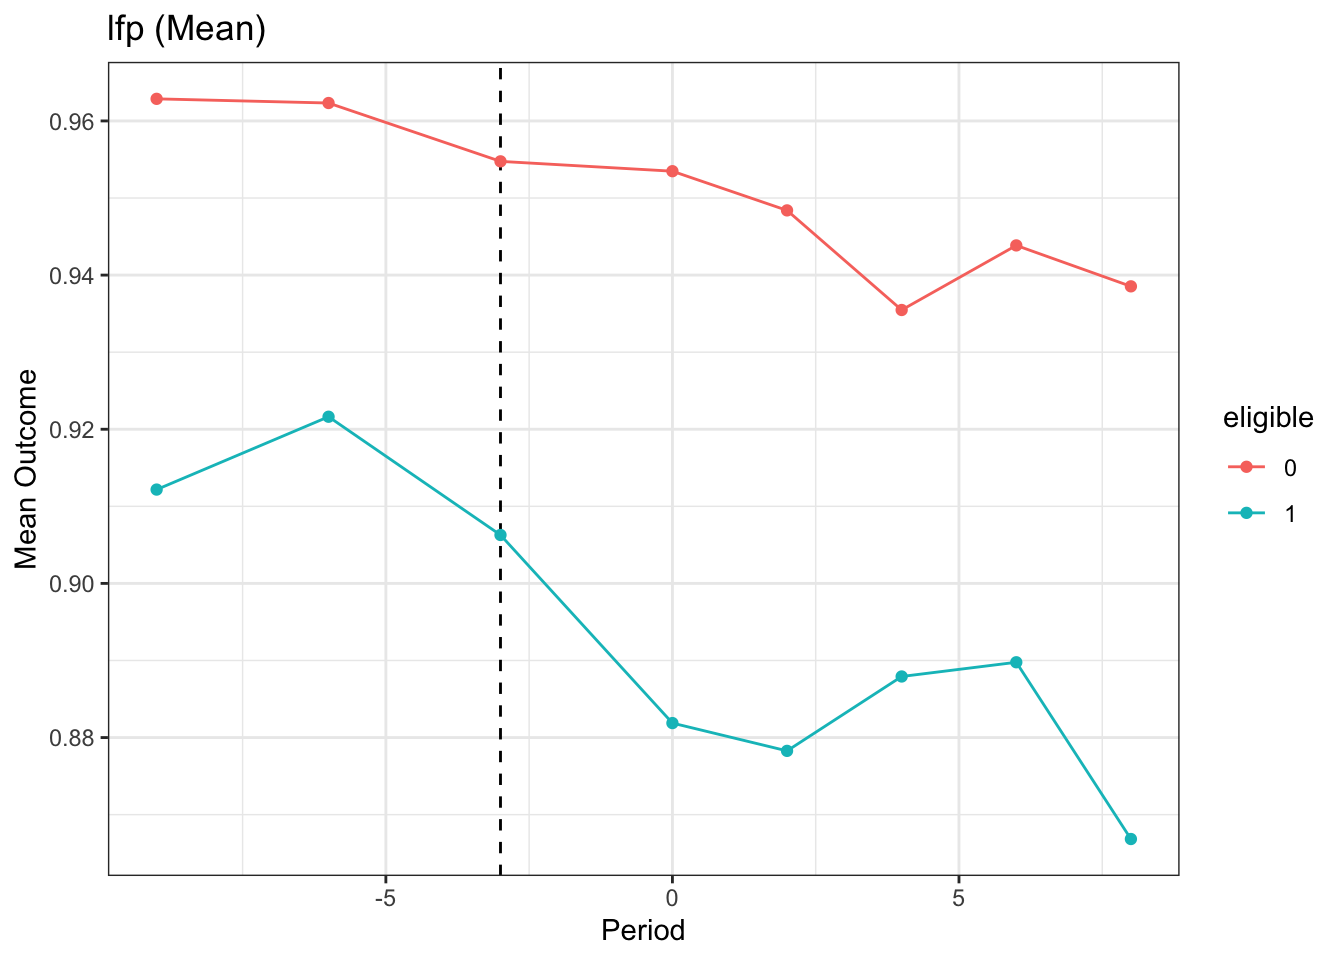
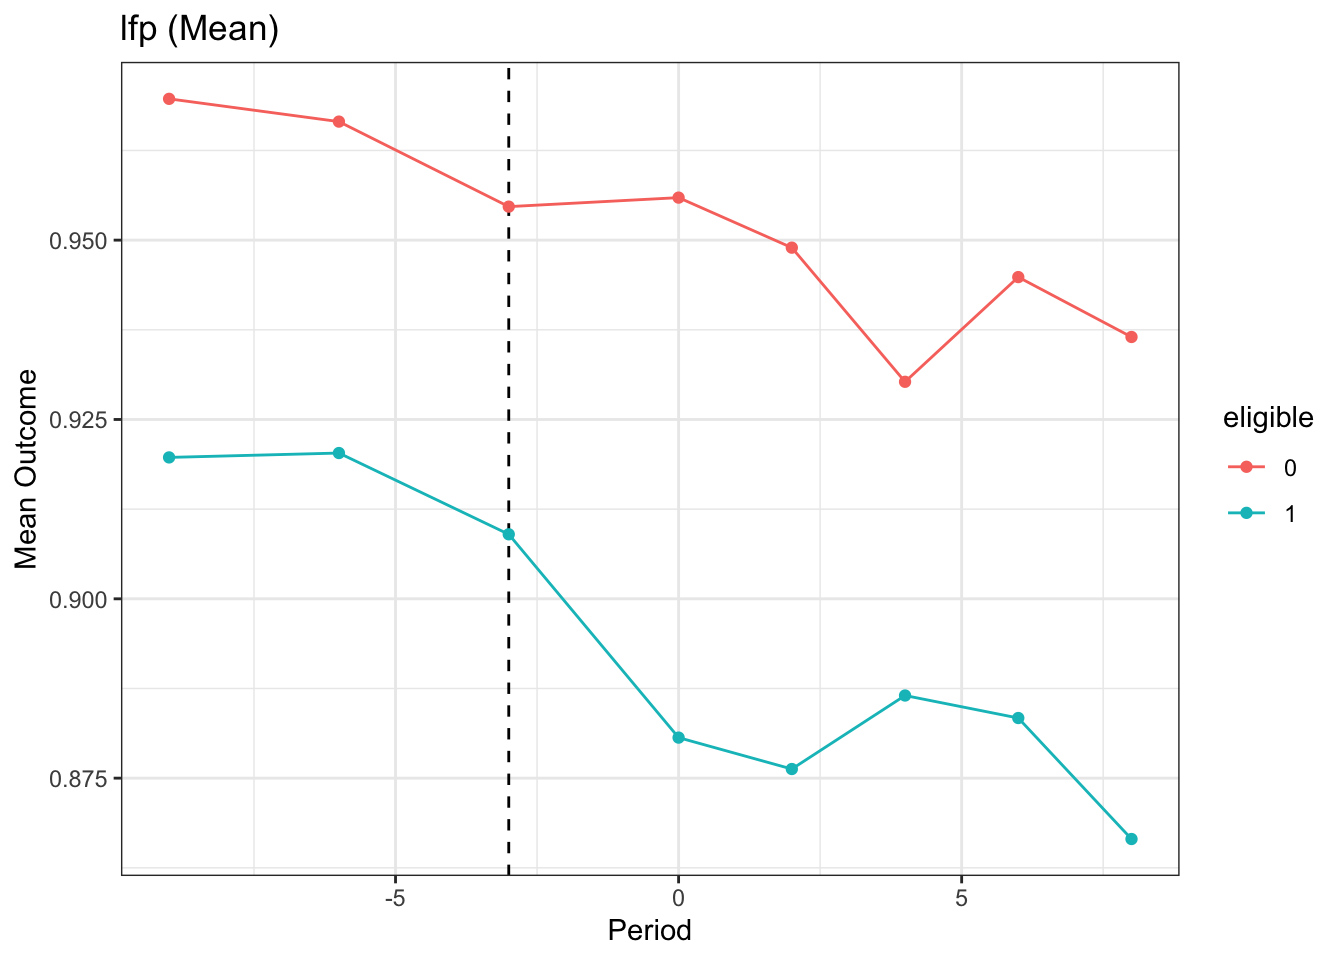
Updated the sample restriction (urban) and data cleaning code

diff --git a/3_did_contd.html b/3_did_contd.html
@@ -83,14 +83,16 @@ pre > code.sourceCode > span > a:first-child::before { text-decoration: underlin
 <h1>Additional sample restriction</h1>
 <div class="cell">
 <div class="sourceCode cell-code" id="cb1"><pre class="sourceCode r code-with-copy"><code class="sourceCode r"><span id="cb1-1"><a href="#cb1-1" aria-hidden="true" tabindex="-1"></a>df_intensive <span class="ot">&lt;-</span> df_intensive <span class="sc">|&gt;</span> </span>
-<span id="cb1-2"><a href="#cb1-2" aria-hidden="true" tabindex="-1"></a>  <span class="fu">filter</span>(decil <span class="sc">&lt;=</span> <span class="dv">8</span>) <span class="sc">|&gt;</span> </span>
-<span id="cb1-3"><a href="#cb1-3" aria-hidden="true" tabindex="-1"></a>  <span class="fu">filter</span>(age <span class="sc">%in%</span> <span class="dv">21</span><span class="sc">:</span><span class="dv">30</span>) <span class="sc">|&gt;</span></span>
-<span id="cb1-4"><a href="#cb1-4" aria-hidden="true" tabindex="-1"></a>  <span class="fu">filter</span>(educ <span class="sc">==</span> <span class="dv">3</span>)</span>
-<span id="cb1-5"><a href="#cb1-5" aria-hidden="true" tabindex="-1"></a></span>
-<span id="cb1-6"><a href="#cb1-6" aria-hidden="true" tabindex="-1"></a>df_extensive <span class="ot">&lt;-</span> df_extensive <span class="sc">|&gt;</span> </span>
-<span id="cb1-7"><a href="#cb1-7" aria-hidden="true" tabindex="-1"></a>  <span class="fu">filter</span>(decil <span class="sc">&lt;=</span> <span class="dv">8</span>) <span class="sc">|&gt;</span> </span>
+<span id="cb1-2"><a href="#cb1-2" aria-hidden="true" tabindex="-1"></a>  <span class="fu">filter</span>(age <span class="sc">%in%</span> <span class="dv">21</span><span class="sc">:</span><span class="dv">30</span>) <span class="sc">|&gt;</span></span>
+<span id="cb1-3"><a href="#cb1-3" aria-hidden="true" tabindex="-1"></a>  <span class="fu">filter</span>(decil <span class="sc">&lt;=</span> <span class="dv">8</span>) <span class="sc">|&gt;</span> </span>
+<span id="cb1-4"><a href="#cb1-4" aria-hidden="true" tabindex="-1"></a>  <span class="fu">filter</span>(educ <span class="sc">==</span> <span class="dv">3</span>) <span class="sc">|&gt;</span> </span>
+<span id="cb1-5"><a href="#cb1-5" aria-hidden="true" tabindex="-1"></a>  <span class="fu">filter</span>(urb <span class="sc">==</span> <span class="dv">1</span>)</span>
+<span id="cb1-6"><a href="#cb1-6" aria-hidden="true" tabindex="-1"></a></span>
+<span id="cb1-7"><a href="#cb1-7" aria-hidden="true" tabindex="-1"></a>df_extensive <span class="ot">&lt;-</span> df_extensive <span class="sc">|&gt;</span> </span>
 <span id="cb1-8"><a href="#cb1-8" aria-hidden="true" tabindex="-1"></a>  <span class="fu">filter</span>(age <span class="sc">%in%</span> <span class="dv">21</span><span class="sc">:</span><span class="dv">30</span>) <span class="sc">|&gt;</span></span>
-<span id="cb1-9"><a href="#cb1-9" aria-hidden="true" tabindex="-1"></a>  <span class="fu">filter</span>(educ <span class="sc">==</span> <span class="dv">3</span>)</span></code><button title="Copy to Clipboard" class="code-copy-button"><i class="bi"></i></button></pre></div>
+<span id="cb1-9"><a href="#cb1-9" aria-hidden="true" tabindex="-1"></a>  <span class="fu">filter</span>(decil <span class="sc">&lt;=</span> <span class="dv">8</span>) <span class="sc">|&gt;</span> </span>
+<span id="cb1-10"><a href="#cb1-10" aria-hidden="true" tabindex="-1"></a>  <span class="fu">filter</span>(educ <span class="sc">==</span> <span class="dv">3</span>) <span class="sc">|&gt;</span> </span>
+<span id="cb1-11"><a href="#cb1-11" aria-hidden="true" tabindex="-1"></a>  <span class="fu">filter</span>(urb <span class="sc">==</span> <span class="dv">1</span>)</span></code><button title="Copy to Clipboard" class="code-copy-button"><i class="bi"></i></button></pre></div>
 </div>
 <div class="cell">
 <div class="sourceCode cell-code" id="cb2"><pre class="sourceCode r code-with-copy"><code class="sourceCode r"><span id="cb2-1"><a href="#cb2-1" aria-hidden="true" tabindex="-1"></a><span class="fu">options</span>(<span class="at">survey.lonely.psu=</span><span class="st">"adjust"</span>)</span>
